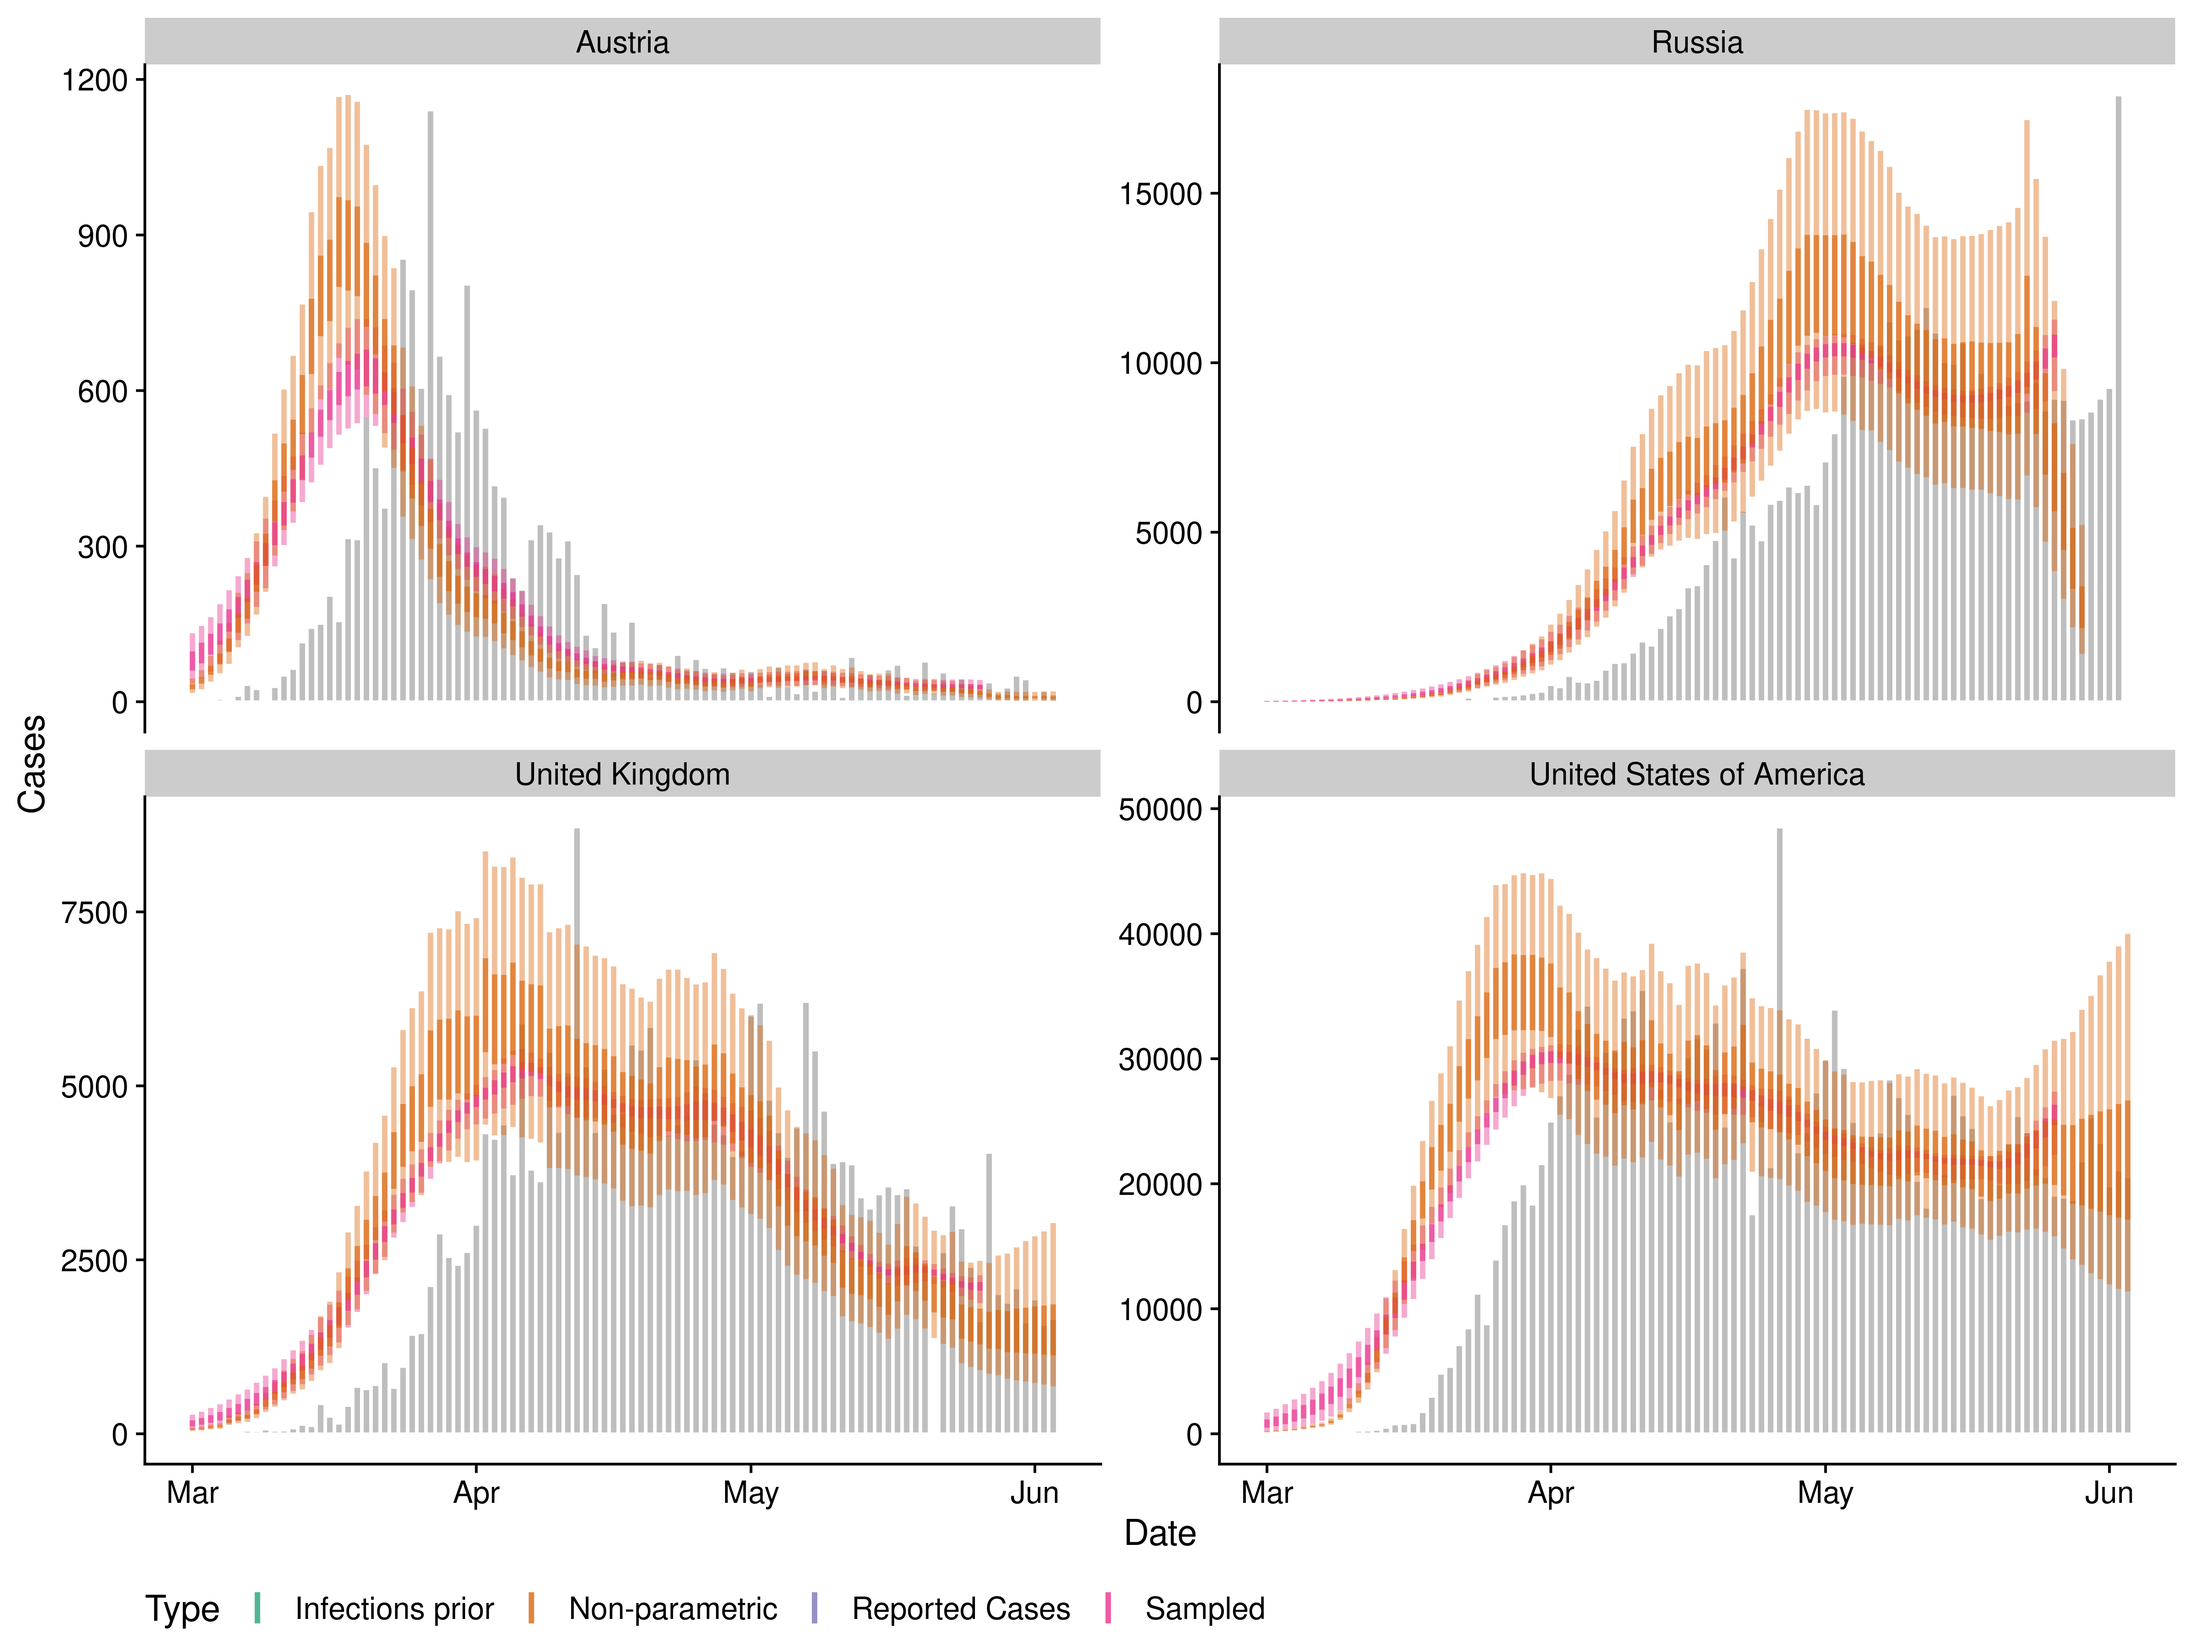
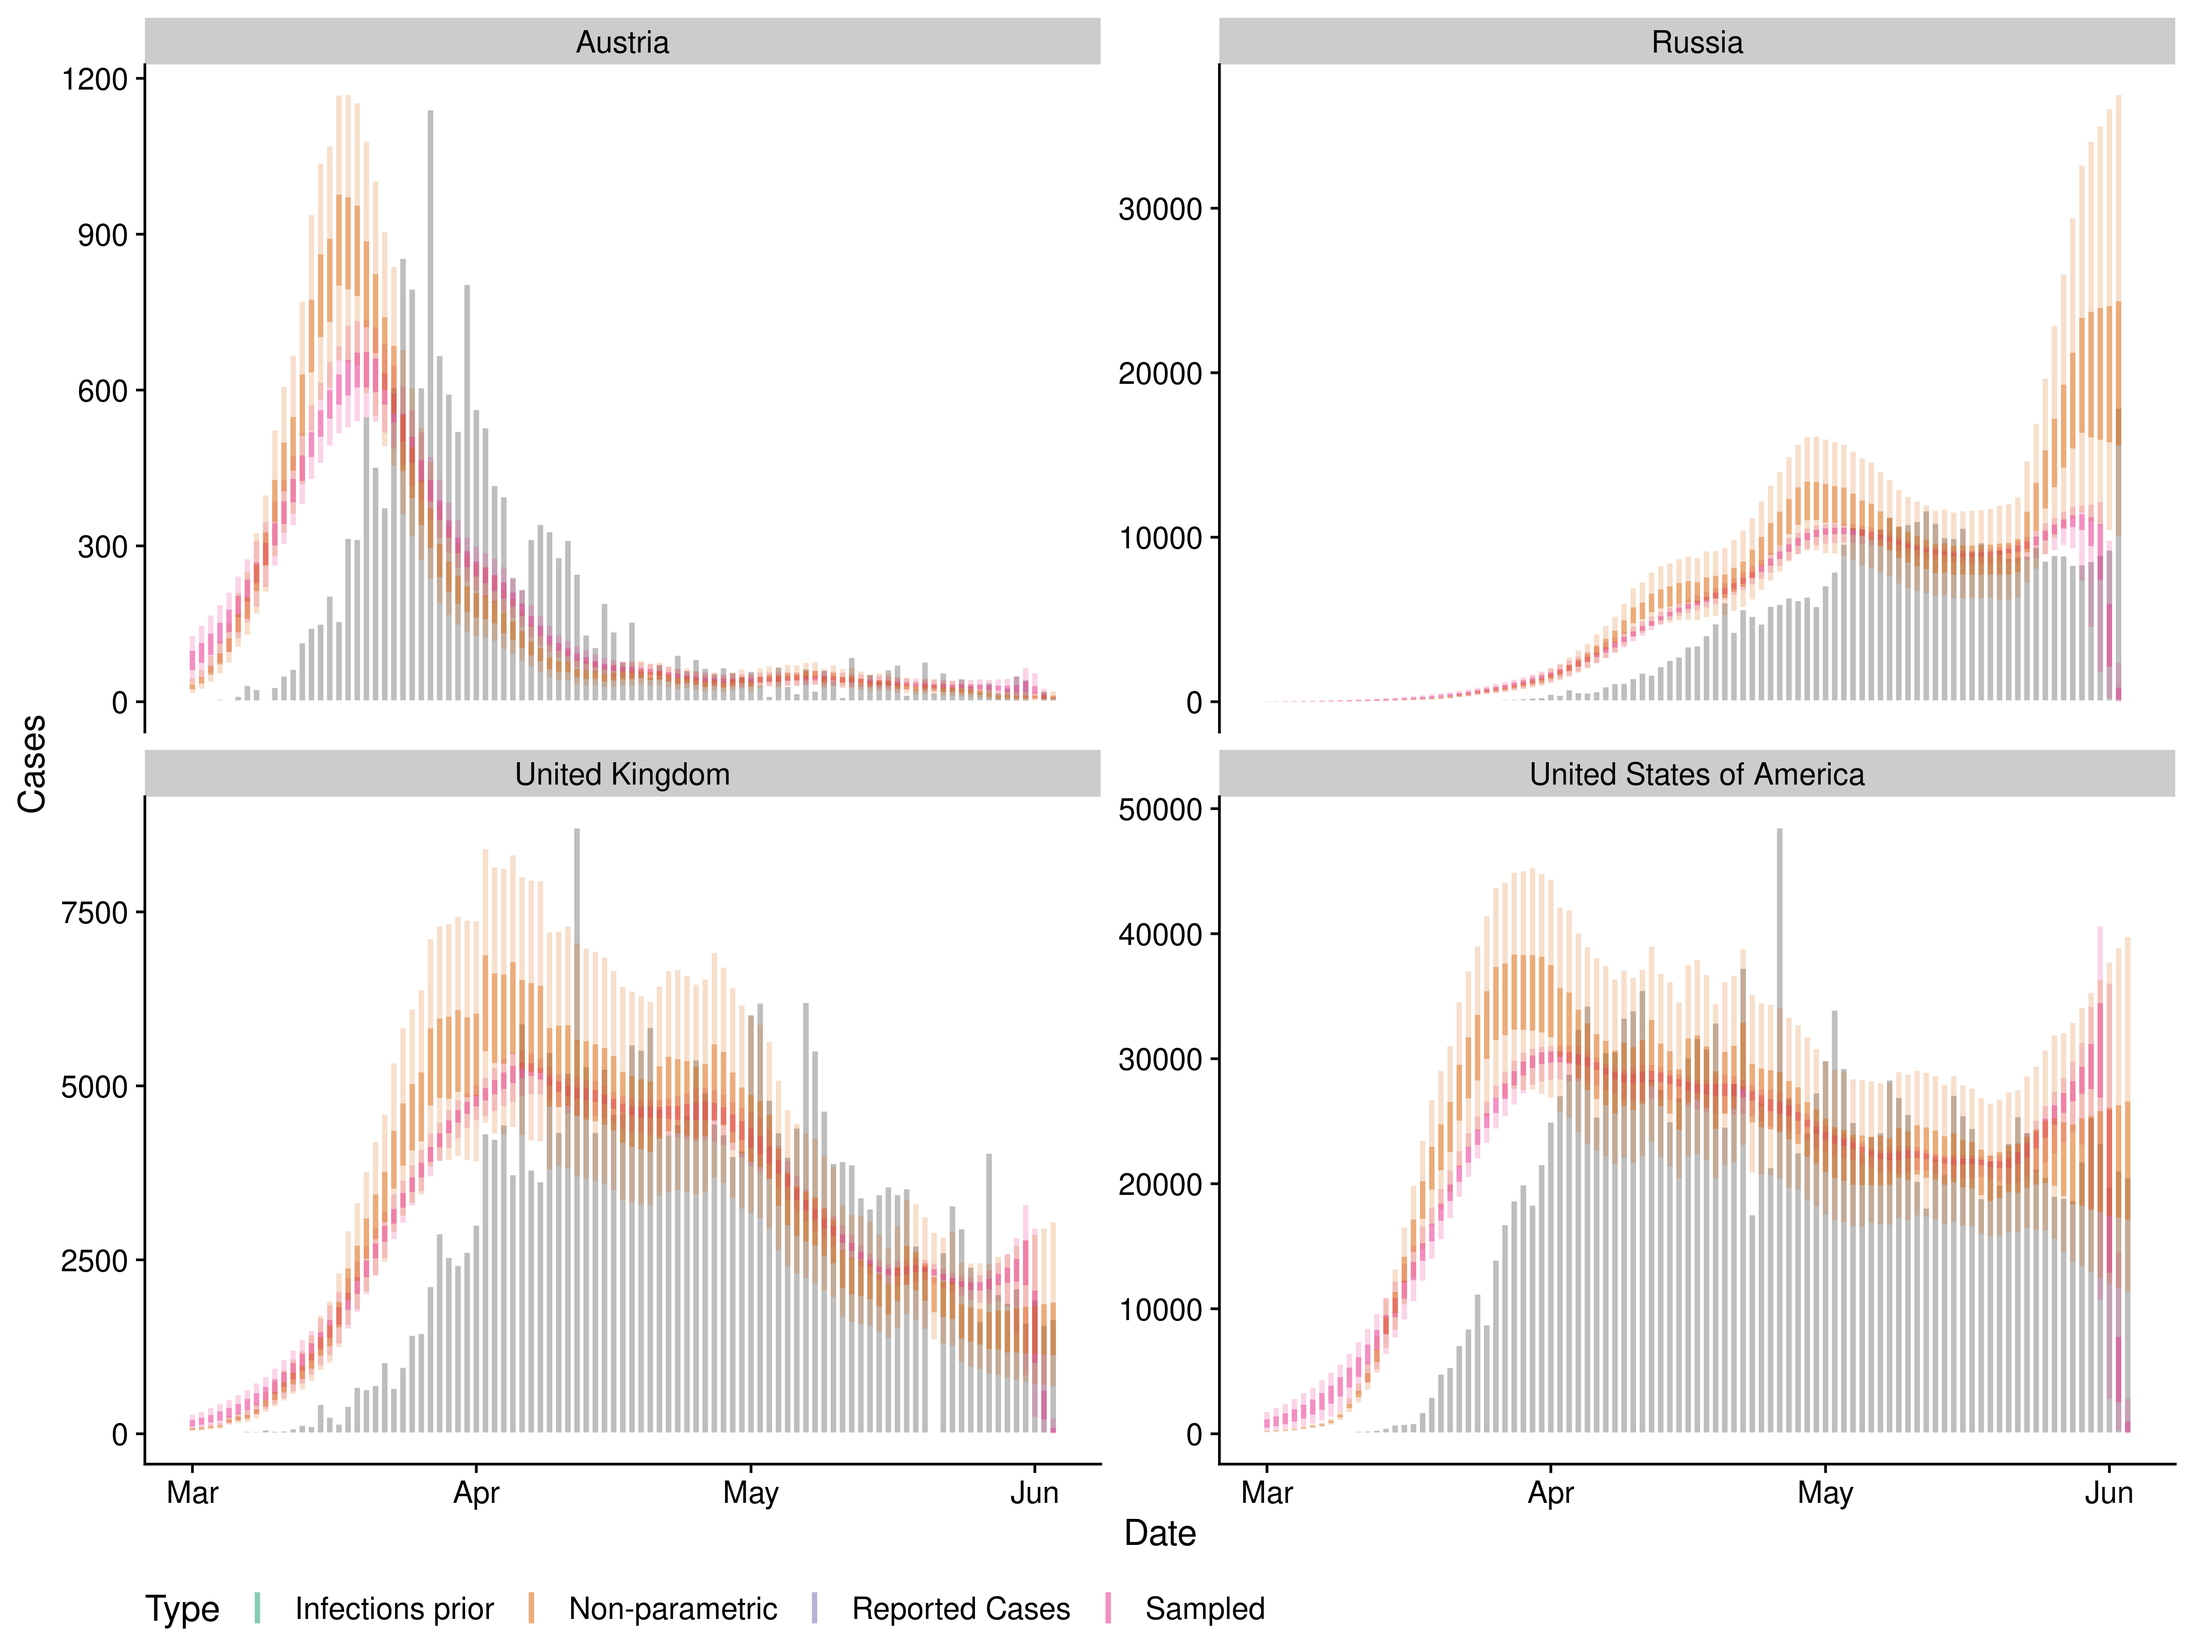
fixed zero at end issue

diff --git a/report.md b/report.md
@@ -418,17 +418,17 @@ simulated_cases <- EpiNow::simulate_cases(rts, initial_cases = 10 , initial_date
                                           reporting_effect = c(1.6, 1, 1, 1, 0.8, 0.4, 1))
 simulated_cases
 #>            date cases reference
-#>   1: 2020-03-02     3 infection
-#>   2: 2020-03-03    11 infection
-#>   3: 2020-03-04     4 infection
-#>   4: 2020-03-05     9 infection
-#>   5: 2020-03-06     9 infection
+#>   1: 2020-03-02     7 infection
+#>   2: 2020-03-03     6 infection
+#>   3: 2020-03-04     6 infection
+#>   4: 2020-03-05    10 infection
+#>   5: 2020-03-06    15 infection
 #>  ---                           
-#> 262: 2020-05-27    84    report
-#> 263: 2020-05-28    91    report
-#> 264: 2020-05-29    72    report
-#> 265: 2020-05-30    34    report
-#> 266: 2020-05-31    95    report
+#> 267: 2020-05-27   192    report
+#> 268: 2020-05-28   146    report
+#> 269: 2020-05-29   144    report
+#> 270: 2020-05-30    77    report
+#> 271: 2020-05-31   214    report
 ```
 
 ### Compare approaches on simulated data
@@ -446,6 +446,7 @@ sampling_cases <- nowcast_pipeline(reported_cases = simulated_reports[, import_s
                                    delay_defs = delay_defs, 
                                    incubation_defs = incubation_defs,
                                    nowcast_lag = 0, approx_delay = TRUE)
+#> Warning in stats::rnbinom(n, x + 1, prob): NAs produced
 
 ## Non-parameteric reconstruction
 non_parametric_cases <- nowcast(simulated_reports,
@@ -459,7 +460,7 @@ non_parametric_cases <- nowcast(simulated_reports,
                                 samples = 1000, warmup = 1000,
                                 return_all = TRUE, model = model,
                                 verbose = TRUE)
-#> Running for 2000 samples and 95 time steps
+#> Running for 2000 samples and 99 time steps
 ```
 
 ### Compare approaches on reported Covid-19 cases in Austria, the United Kingdom, United States of America and Russia
@@ -495,22 +496,25 @@ results <- lapply(countries,
                                            target_date = max(cases$date),
                                            delay_defs = delay_defs,
                                            incubation_defs = incubation_defs,
-                                           approx_delay = TRUE)
+                                           nowcast_lag = 0, approx_delay = TRUE)
         
         message("Non-parametric nowcasting for: ", country)
         ## Non-parametric reconstruction
         non_parametric_cases <- nowcast(cases,
                                         family = "negbin",
-                                         incubation_period = incubation_period,
-                                         reporting_delay = reporting_delay,
-                                         generation_time = generation_time, 
-                                         estimate_rt = FALSE,
-                                         samples = 2000, warmup = 1000,
-                                         cores = 4, chains = 4,
-                                         return_all = TRUE, model = model)
+                                        incubation_period = incubation_period,
+                                        reporting_delay = reporting_delay,
+                                        generation_time = generation_time, 
+                                        estimate_rt = FALSE,
+                                        samples = 2000, warmup = 1000,
+                                        cores = 4, chains = 4,
+                                        return_all = TRUE, model = model)
         
         return(list(sampling_cases, non_parametric_cases))
                                        })
+#> Warning in stats::rnbinom(n, x + 1, prob): NAs produced
+
+#> Warning in stats::rnbinom(n, x + 1, prob): NAs produced
 #> Warning: The largest R-hat is NA, indicating chains have not mixed.
 #> Running the chains for more iterations may help. See
 #> http://mc-stan.org/misc/warnings.html#r-hat
@@ -520,6 +524,9 @@ results <- lapply(countries,
 #> Warning: Tail Effective Samples Size (ESS) is too low, indicating posterior variances and tail quantiles may be unreliable.
 #> Running the chains for more iterations may help. See
 #> http://mc-stan.org/misc/warnings.html#tail-ess
+#> Warning in stats::rnbinom(n, x + 1, prob): NAs produced
+
+#> Warning in stats::rnbinom(n, x + 1, prob): NAs produced
 #> Warning: The largest R-hat is NA, indicating chains have not mixed.
 #> Running the chains for more iterations may help. See
 #> http://mc-stan.org/misc/warnings.html#r-hat
@@ -544,13 +551,13 @@ names(results) <- countries
 ``` r
 non_parametric_cases$day_of_week[, as.list(summary(value)), by = "wday"]
 #>         wday      Min.   1st Qu.    Median      Mean   3rd Qu.      Max.
-#> 1:    Monday 1.3369202 1.5842655 1.6453327 1.6480013 1.7101078 1.9757299
-#> 2:   Tuesday 0.7833156 0.9468587 0.9916598 0.9939709 1.0384850 1.2884126
-#> 3: Wednesday 0.7946190 0.9759884 1.0210021 1.0214155 1.0644876 1.2717640
-#> 4:  Thursday 0.7892070 0.9684665 1.0150213 1.0170034 1.0627604 1.2888899
-#> 5:    Friday 0.6017638 0.7742097 0.8112007 0.8132337 0.8488045 1.0892138
-#> 6:  Saturday 0.2945963 0.3830878 0.4038710 0.4047661 0.4252494 0.5432345
-#> 7:    Sunday 0.8623446 1.0545449 1.1000493 1.1016090 1.1469431 1.4129305
+#> 1:    Monday 1.3321460 1.5882585 1.6496200 1.6516356 1.7106489 1.9419309
+#> 2:   Tuesday 0.7691495 0.9483523 0.9913809 0.9938828 1.0343125 1.2626165
+#> 3: Wednesday 0.8299799 0.9997393 1.0424612 1.0439416 1.0860256 1.3065855
+#> 4:  Thursday 0.7630133 0.9711470 1.0132362 1.0146981 1.0553339 1.2301869
+#> 5:    Friday 0.6734807 0.8026501 0.8400650 0.8408368 0.8777410 1.0472130
+#> 6:  Saturday 0.3083335 0.3791148 0.3992795 0.4001306 0.4199423 0.5164145
+#> 7:    Sunday 0.8195839 1.0119234 1.0513874 1.0548746 1.0964231 1.3402281
 ```
 
   - Recover reporting delays
@@ -563,8 +570,8 @@ data.table::rbindlist(list(
   non_parametric_cases$rep_sd[, .(parameter = "sd", mean = mean(value), sd = sd(value))]
 ))
 #>    parameter      mean          sd
-#> 1:      mean 1.6085694 0.009863083
-#> 2:        sd 0.6912171 0.018261529
+#> 1:      mean 1.6085744 0.009525181
+#> 2:        sd 0.6916494 0.017710901
 ```
 
   - Recover incubation period
@@ -577,8 +584,8 @@ data.table::rbindlist(list(
   non_parametric_cases$inc_sd[, .(parameter = "sd", mean = mean(value), sd = sd(value))]
 ))
 #>    parameter      mean          sd
-#> 1:      mean 1.6206334 0.006736578
-#> 2:        sd 0.4177812 0.007025729
+#> 1:      mean 1.6207186 0.006204358
+#> 2:        sd 0.4177093 0.006923570
 ```
 
   - Prepare data for
@@ -676,44 +683,44 @@ country
 ``` r
 purrr::map(results, ~ .[[2]]$day_of_week[, as.list(summary(value)), by = "wday"])
 #> $Austria
-#>         wday      Min.   1st Qu.    Median      Mean   3rd Qu.     Max.
-#> 1:    Monday 0.4474820 0.6631649 0.7146622 0.7202167 0.7731108 1.179633
-#> 2:   Tuesday 0.6505533 0.8939427 0.9624841 0.9688629 1.0357200 1.471953
-#> 3: Wednesday 0.6854817 0.9553799 1.0248556 1.0316792 1.1020187 1.501045
-#> 4:  Thursday 0.5919494 0.8892024 0.9588719 0.9645361 1.0328039 1.450184
-#> 5:    Friday 0.7230573 1.0051970 1.0841009 1.0914188 1.1695866 1.742216
-#> 6:  Saturday 0.7411919 1.1439784 1.2245115 1.2308776 1.3110719 1.863528
-#> 7:    Sunday 0.6271439 0.9136233 0.9868094 0.9924087 1.0607644 1.556434
+#>         wday      Min.   1st Qu.    Median      Mean  3rd Qu.     Max.
+#> 1:    Monday 0.4553486 0.6597074 0.7133279 0.7191980 0.773323 1.181415
+#> 2:   Tuesday 0.6435543 0.8928487 0.9620136 0.9676083 1.037469 1.487350
+#> 3: Wednesday 0.6217315 0.9533216 1.0260229 1.0319547 1.102476 1.551721
+#> 4:  Thursday 0.6351770 0.8889191 0.9575475 0.9639907 1.033012 1.434612
+#> 5:    Friday 0.7145081 1.0078820 1.0844727 1.0910157 1.166702 1.736259
+#> 6:  Saturday 0.8535405 1.1456865 1.2271969 1.2338026 1.316128 1.818715
+#> 7:    Sunday 0.6418429 0.9157637 0.9863031 0.9924299 1.060449 1.463494
 #> 
 #> $`United Kingdom`
 #>         wday      Min.   1st Qu.    Median      Mean   3rd Qu.     Max.
-#> 1:    Monday 0.6803021 0.9866439 1.0602794 1.0700432 1.1477666 1.614187
-#> 2:   Tuesday 0.5397602 0.7555265 0.8198134 0.8256660 0.8883956 1.251244
-#> 3: Wednesday 0.5843771 0.8475234 0.9107135 0.9163452 0.9797718 1.438202
-#> 4:  Thursday 0.6126897 0.8800352 0.9487254 0.9563363 1.0242356 1.462174
-#> 5:    Friday 0.6456273 0.9552996 1.0288896 1.0373393 1.1115975 1.608127
-#> 6:  Saturday 0.7163423 0.9896360 1.0652397 1.0705833 1.1459189 1.612740
-#> 7:    Sunday 0.7503461 1.0391432 1.1163386 1.1236868 1.2011017 1.739417
+#> 1:    Monday 0.6234883 0.9875295 1.0647041 1.0714275 1.1473135 1.795143
+#> 2:   Tuesday 0.5369750 0.7564222 0.8184997 0.8237987 0.8834020 1.288060
+#> 3: Wednesday 0.6056202 0.8462580 0.9121482 0.9172414 0.9814343 1.414607
+#> 4:  Thursday 0.6096313 0.8767529 0.9490498 0.9557929 1.0271495 1.476008
+#> 5:    Friday 0.6911887 0.9549942 1.0297273 1.0357731 1.1112875 1.563819
+#> 6:  Saturday 0.7023413 0.9896022 1.0652523 1.0720039 1.1476437 1.560209
+#> 7:    Sunday 0.7346365 1.0391061 1.1184163 1.1239625 1.2031509 1.705964
 #> 
 #> $`United States of America`
 #>         wday      Min.   1st Qu.    Median      Mean   3rd Qu.     Max.
-#> 1:    Monday 0.7181750 0.8667127 0.9015733 0.9043926 0.9387885 1.121429
-#> 2:   Tuesday 0.7471251 0.9022849 0.9405729 0.9430080 0.9817950 1.222220
-#> 3: Wednesday 0.7366916 0.8856148 0.9222540 0.9237178 0.9607083 1.142122
-#> 4:  Thursday 0.7526877 0.9129092 0.9513193 0.9530592 0.9907638 1.221722
-#> 5:    Friday 0.8181803 1.0210160 1.0649151 1.0660029 1.1098669 1.299057
-#> 6:  Saturday 0.9306471 1.0996984 1.1455769 1.1483541 1.1938481 1.427301
-#> 7:    Sunday 0.8471759 1.0185457 1.0596267 1.0614653 1.1033324 1.349784
+#> 1:    Monday 0.7090682 0.8663433 0.9029952 0.9045882 0.9408033 1.199528
+#> 2:   Tuesday 0.7588929 0.9038461 0.9415399 0.9439228 0.9813710 1.217412
+#> 3: Wednesday 0.7501136 0.8849629 0.9213808 0.9232633 0.9586499 1.190471
+#> 4:  Thursday 0.7354623 0.9123161 0.9508406 0.9533327 0.9924186 1.220941
+#> 5:    Friday 0.8049083 1.0224692 1.0645537 1.0661633 1.1085772 1.397414
+#> 6:  Saturday 0.9236516 1.1016174 1.1457626 1.1489255 1.1921687 1.414941
+#> 7:    Sunday 0.8111929 1.0179732 1.0585695 1.0598043 1.0998705 1.362117
 #> 
 #> $Russia
 #>         wday      Min.   1st Qu.    Median      Mean  3rd Qu.     Max.
-#> 1:    Monday 0.5183437 0.8709702 0.9679553 0.9795657 1.078561 1.772725
-#> 2:   Tuesday 0.5201567 0.8882500 0.9844886 0.9976446 1.094518 2.164709
-#> 3: Wednesday 0.4255412 0.7501975 0.8372231 0.8472063 0.930315 1.497372
-#> 4:  Thursday 0.5042368 0.9297654 1.0317847 1.0450098 1.146285 1.926877
-#> 5:    Friday 0.5088176 0.8833093 0.9808813 0.9935107 1.088519 1.769715
-#> 6:  Saturday 0.6258507 1.0612630 1.1793020 1.1976038 1.315299 2.178119
-#> 7:    Sunday 0.4967375 0.8337423 0.9262764 0.9394591 1.032438 1.753042
+#> 1:    Monday 0.6945279 0.9380559 0.9992149 1.0034149 1.063491 1.510367
+#> 2:   Tuesday 0.6705700 0.8975525 0.9543772 0.9586771 1.015618 1.342484
+#> 3: Wednesday 0.6615815 0.8873466 0.9431653 0.9475883 1.003029 1.358241
+#> 4:  Thursday 0.6502685 0.9620644 1.0264623 1.0310391 1.093293 1.479560
+#> 5:    Friday 0.7254960 0.9480915 1.0096342 1.0140335 1.074367 1.412991
+#> 6:  Saturday 0.7355654 1.0195432 1.0863036 1.0929837 1.159355 1.594220
+#> 7:    Sunday 0.6639357 0.8895024 0.9481209 0.9522635 1.010432 1.389664
 ```
 
   - Prepare data for
@@ -743,9 +750,9 @@ plot <- ggplot2::ggplot(all_country_data, ggplot2::aes(x = date, col = type, fil
   ggplot2::geom_col(data = all_country_data[type %in% "Reported Cases"],
                     ggplot2::aes(y = median), fill = "grey", col = "white") +
   ggplot2::geom_linerange(ggplot2::aes(ymin = bottom, ymax = top), 
-                         alpha = 0.4, size = 1) +
+                         alpha = 0.2, size = 1) +
  ggplot2::geom_linerange(ggplot2::aes(ymin = lower, ymax = upper), 
-                         alpha = 0.6, size = 1) +
+                         alpha = 0.4, size = 1) +
   cowplot::theme_cowplot() +
   ggplot2::theme(legend.position = "bottom") +
   ggplot2::scale_color_brewer(palette = "Dark2") +
